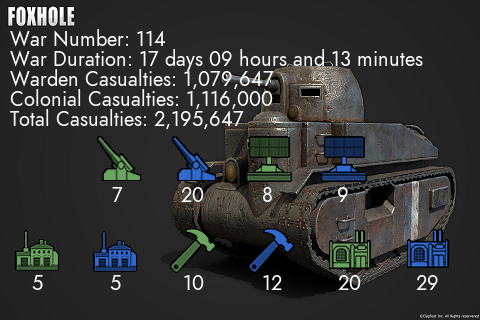
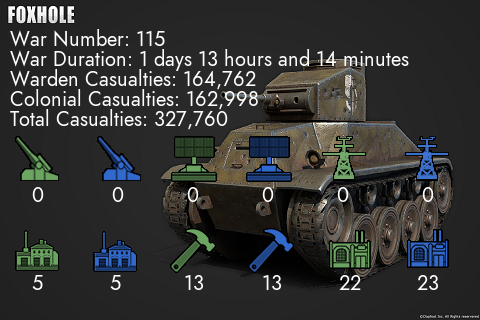
Update for rocket silos and weather machines

diff --git a/foxMapAndStats/fxwsDrawStats.py b/foxMapAndStats/fxwsDrawStats.py
@@ -15,21 +15,26 @@ def fxDrawStats(fxWarConquest, fxWorkingData, foxholeFont, fxConfig):
         fxStatsBackground = Image.open(fxConfig['Stats']['fxStatsTiedBackground']).convert('RGBA')
 
     #Open Icons
-    fxIntelCenterColonial = Image.open(fxConfig['Stats']['fxStatsIntelCenterColonial']).convert('RGBA')
-    fxIntelCenterWarden = Image.open(fxConfig['Stats']['fxStatsIntelCenterWarden']).convert('RGBA')
+    fxStatsIntelCenterColonial = Image.open(fxConfig['Stats']['fxStatsIntelCenterColonial']).convert('RGBA')
+    fxStatsIntelCenterWarden = Image.open(fxConfig['Stats']['fxStatsIntelCenterWarden']).convert('RGBA')
     fxStormCannonColonial = Image.open(fxConfig['Stats']['fxStatsStormCannonColonial']).convert('RGBA')
     fxStormCannonWarden = Image.open(fxConfig['Stats']['fxStatsStormCannonWarden']).convert('RGBA')
+    fxStatsWeatherStationColonial = Image.open(fxConfig['Stats']['fxStatsWeatherStationColonial']).convert('RGBA')
+    fxStatsWeatherStationWarden = Image.open(fxConfig['Stats']['fxStatsWeatherStationWarden']).convert('RGBA')  
     fxStatsFactoryColonial = Image.open(fxConfig['Stats']['fxStatsFactoryColonial']).convert('RGBA')
     fxStatsFactoryWarden = Image.open(fxConfig['Stats']['fxStatsFactoryWarden']).convert('RGBA')
     fxStatsMPFColonial = Image.open(fxConfig['Stats']['fxStatsMPFColonial']).convert('RGBA')
     fxStatsMPFWarden = Image.open(fxConfig['Stats']['fxStatsMPFWarden']).convert('RGBA')
     fxStatsRefineryColonial = Image.open(fxConfig['Stats']['fxStatsRefineryColonial']).convert('RGBA')
     fxStatsRefineryWarden = Image.open(fxConfig['Stats']['fxStatsRefineryWarden']).convert('RGBA')
-        
-    fxStatsBackground.paste(fxIntelCenterColonial, eval(fxConfig['Stats']['fxStatsIntelCenterColonialXY']), fxIntelCenterColonial)
-    fxStatsBackground.paste(fxIntelCenterWarden, eval(fxConfig['Stats']['fxStatsIntelCenterWardenXY']), fxIntelCenterWarden) 
+  
+
     fxStatsBackground.paste(fxStormCannonColonial, eval(fxConfig['Stats']['fxStatsStormCannonColonialXY']), fxStormCannonColonial)    
-    fxStatsBackground.paste(fxStormCannonWarden, eval(fxConfig['Stats']['fxStatsStormCannonWardenXY']), fxStormCannonWarden)
+    fxStatsBackground.paste(fxStormCannonWarden, eval(fxConfig['Stats']['fxStatsStormCannonWardenXY']), fxStormCannonWarden)        
+    fxStatsBackground.paste(fxStatsIntelCenterColonial, eval(fxConfig['Stats']['fxStatsIntelCenterColonialXY']), fxStatsIntelCenterColonial)
+    fxStatsBackground.paste(fxStatsIntelCenterWarden, eval(fxConfig['Stats']['fxStatsIntelCenterWardenXY']), fxStatsIntelCenterWarden)
+    fxStatsBackground.paste(fxStatsWeatherStationColonial, eval(fxConfig['Stats']['fxStatsWeatherStationColonialXY']), fxStatsWeatherStationColonial)
+    fxStatsBackground.paste(fxStatsWeatherStationWarden, eval(fxConfig['Stats']['fxStatsWeatherStationWardenXY']), fxStatsWeatherStationWarden)    
     fxStatsBackground.paste(fxStatsFactoryColonial, eval(fxConfig['Stats']['fxStatsFactoryColonialXY']), fxStatsFactoryColonial)
     fxStatsBackground.paste(fxStatsFactoryWarden, eval(fxConfig['Stats']['fxStatsFactoryWardenXY']), fxStatsFactoryWarden)
     fxStatsBackground.paste(fxStatsMPFColonial, eval(fxConfig['Stats']['fxStatsMPFColonialXY']), fxStatsMPFColonial)
@@ -50,6 +55,8 @@ def fxDrawStats(fxWarConquest, fxWorkingData, foxholeFont, fxConfig):
     fxDrawText.text(eval(fxConfig['Stats']['fxStatsTotalStormCannonsColonialXY']), str(fxWorkingData.fxTotalColonialStormCannons), anchor="ms", fill ="white", font = fxFoxholeFont, align ="center")
     fxDrawText.text(eval(fxConfig['Stats']['fxStatsTotalIntelCentersWardenXY']), str(fxWorkingData.fxTotalWardenIntelCenters), anchor="ms", fill ="white", font = fxFoxholeFont, align ="center")
     fxDrawText.text(eval(fxConfig['Stats']['fxStatsTotalIntelCentersColonialXY']), str(fxWorkingData.fxTotalColonialIntelCenters), anchor="ms", fill ="white", font = fxFoxholeFont, align ="center")
+    fxDrawText.text(eval(fxConfig['Stats']['fxStatsTotalWeatherStationColonialXY']), str(fxWorkingData.fxTotalColonialWeatherStations), anchor="ms", fill ="white", font = fxFoxholeFont, align ="center")
+    fxDrawText.text(eval(fxConfig['Stats']['fxStatsTotalWeatherStationWardenXY']), str(fxWorkingData.fxTotalWardenWeatherStations), anchor="ms", fill ="white", font = fxFoxholeFont, align ="center")
     fxDrawText.text(eval(fxConfig['Stats']['fxStatsTotalMPFColonialXY']), str(fxWorkingData.fxTotalColonialMPFs), anchor="ms", fill ="white", font = fxFoxholeFont, align ="center")
     fxDrawText.text(eval(fxConfig['Stats']['fxStatsTotalMPFWardenXY']), str(fxWorkingData.fxTotalWardenMPFs), anchor="ms", fill ="white", font = fxFoxholeFont, align ="center")
     fxDrawText.text(eval(fxConfig['Stats']['fxStatsTotalRefineryColonialXY']), str(fxWorkingData.fxTotalColonialRefineries), anchor="ms", fill ="white", font = fxFoxholeFont, align ="center")

diff --git a/foxMapAndStats/fxwsWorldMapDraw.py b/foxMapAndStats/fxwsWorldMapDraw.py
@@ -156,8 +156,36 @@ def fxWorldMapDraw(fxWarConquest, fxWorkingData, foxholeFont, fxConfig):
         fxDrawText = ImageDraw.Draw(fxWorldMapBackground)
 
         fxDrawText.text(eval(fxConfig['WorldMap']['fxWorldMapColonialVictoryPoints']), colonialVictoryPoints, anchor="ms", fill ="black", font = fxFoxholeFont, align ="center") 
-        fxDrawText.text(eval(fxConfig['WorldMap']['fxWorldMapWardenVictoryPoints']), wardenVictoryPoints, anchor="ms", fill ="black", font = fxFoxholeFont, align ="center") 
+        fxDrawText.text(eval(fxConfig['WorldMap']['fxWorldMapWardenVictoryPoints']), wardenVictoryPoints, anchor="ms", fill ="black", font = fxFoxholeFont, align ="center")
         
+        #Draw Warden Rocket Information
+        fxWardenRocketSite = Image.open(fxConfig['WorldMap']['fxWorldMapRocketSiteWarden']).convert('RGBA')
+        fxWardenRocketSiteArmed = Image.open(fxConfig['WorldMap']['fxWorldMapRocketSiteArmedWarden']).convert('RGBA')
+        
+        #Warden Rocket Site
+        fxWorldMapBackground.paste(fxWardenRocketSite, eval(fxConfig['WorldMap']['fxWarMapWardenRocketSiteXY']), fxWardenRocketSite)
+        #Warden Armed Rocket Site
+        fxWorldMapBackground.paste(fxWardenRocketSiteArmed, eval(fxConfig['WorldMap']['fxWarMapWardenRocketSiteArmedXY']), fxWardenRocketSiteArmed)
+        #Warden Rocket Sites Count
+        fxDrawText = ImageDraw.Draw(fxWorldMapBackground)    
+        fxDrawText.text(eval(fxConfig['WorldMap']['fxWarMapTotalWardenRocketSitesXY']), str(fxWorkingData.fxTotalWardenRocketSilos), anchor="ms", fill ="white", font = fxFoxholeFont, align ="center")
+        fxDrawText.text(eval(fxConfig['WorldMap']['fxWarMapTotalWardenRocketSitesArmedXY']), str(fxWorkingData.fxTotalWardenArmedRocketSilos), anchor="ms", fill ="white", font = fxFoxholeFont, align ="center")
+
+        #Draw Colonial Rocket Information
+        fxColonialRocketSite = Image.open(fxConfig['WorldMap']['fxWorldMapRocketSiteColonial']).convert('RGBA')
+        fxColonialRocketSiteArmed = Image.open(fxConfig['WorldMap']['fxWorldMapRocketSiteArmedColonial']).convert('RGBA')
+
+        #Colonial Rocket Site
+        fxWorldMapBackground.paste(fxColonialRocketSite, eval(fxConfig['WorldMap']['fxWarMapColonialRocketSiteXY']), fxColonialRocketSite)
+        #Colonial Armed Rocket Site
+        fxWorldMapBackground.paste(fxColonialRocketSiteArmed, eval(fxConfig['WorldMap']['fxWarMapColonialRocketSiteArmedXY']), fxColonialRocketSiteArmed)
+        #Colonial Rocket Sites Count
+        fxDrawText = ImageDraw.Draw(fxWorldMapBackground)    
+        fxDrawText.text(eval(fxConfig['WorldMap']['fxWarMapTotalColonialRocketSitesXY']), str(fxWorkingData.fxTotalColonialRocketSilos), anchor="ms", fill ="white", font = fxFoxholeFont, align ="center")
+        fxDrawText.text(eval(fxConfig['WorldMap']['fxWarMapTotalColonialRocketSitesArmedXY']), str(fxWorkingData.fxTotalColonialArmedRocketSilos), anchor="ms", fill ="white", font = fxFoxholeFont, align ="center") 
+        
+
+
         #Debug: Save Final Background
         if(fxConfig['Log']['Debug'] == 'True'):
             logger.debug("Saving final world map to working directory.")

diff --git a/foxMapAndStats/fxwsFunctions.py b/foxMapAndStats/fxwsFunctions.py
@@ -52,6 +52,21 @@ def fxPopulateWorkingData(fxWarConquest):
                     _fxWorkingData.fxTotalWardenMPFs += 1
                 if fxWarRegionMapItem.teamId == colonials:
                     _fxWorkingData.fxTotalColonialMPFs += 1
+            if fxWarRegionMapItem.iconType == 37:
+                if fxWarRegionMapItem.teamId == wardens:
+                    _fxWorkingData.fxTotalWardenRocketSilos += 1
+                if fxWarRegionMapItem.teamId == colonials:
+                    _fxWorkingData.fxTotalColonialRocketSilos += 1
+            if fxWarRegionMapItem.iconType == 72:
+                if fxWarRegionMapItem.teamId == wardens:
+                    _fxWorkingData.fxTotalWardenArmedRocketSilos += 1
+                if fxWarRegionMapItem.teamId == colonials:
+                    _fxWorkingData.fxTotalColonialArmedRocketSilos += 1
+            if fxWarRegionMapItem.iconType == 888:
+                if fxWarRegionMapItem.teamId == wardens:
+                    _fxWorkingData.fxTotalWardenWeatherStations += 1
+                if fxWarRegionMapItem.teamId == colonials:
+                    _fxWorkingData.fxTotalColonialWeatherStations += 1
 
     #Calculate Victory Points
     logging.debug("Calculating total victory points per faction.")

diff --git a/foxMapAndStats/fxwsDataClasses.py b/foxMapAndStats/fxwsDataClasses.py
@@ -17,6 +17,12 @@ class fxWorkingData:
         self.fxTotalColonialMPFs = 0
         self.fxTotalWardenRefineries = 0
         self.fxTotalColonialRefineries = 0
+        self.fxTotalColonialWeatherStations = 0
+        self.fxTotalWardenWeatherStations = 0
+        self.fxTotalColonialArmedRocketSilos = 0
+        self.fxTotalColonialRocketSilos = 0
+        self.fxTotalWardenArmedRocketSilos = 0
+        self.fxTotalWardenRocketSilos = 0
         self.fxWarLength = None
         self.fxResistanceLength = None
 
